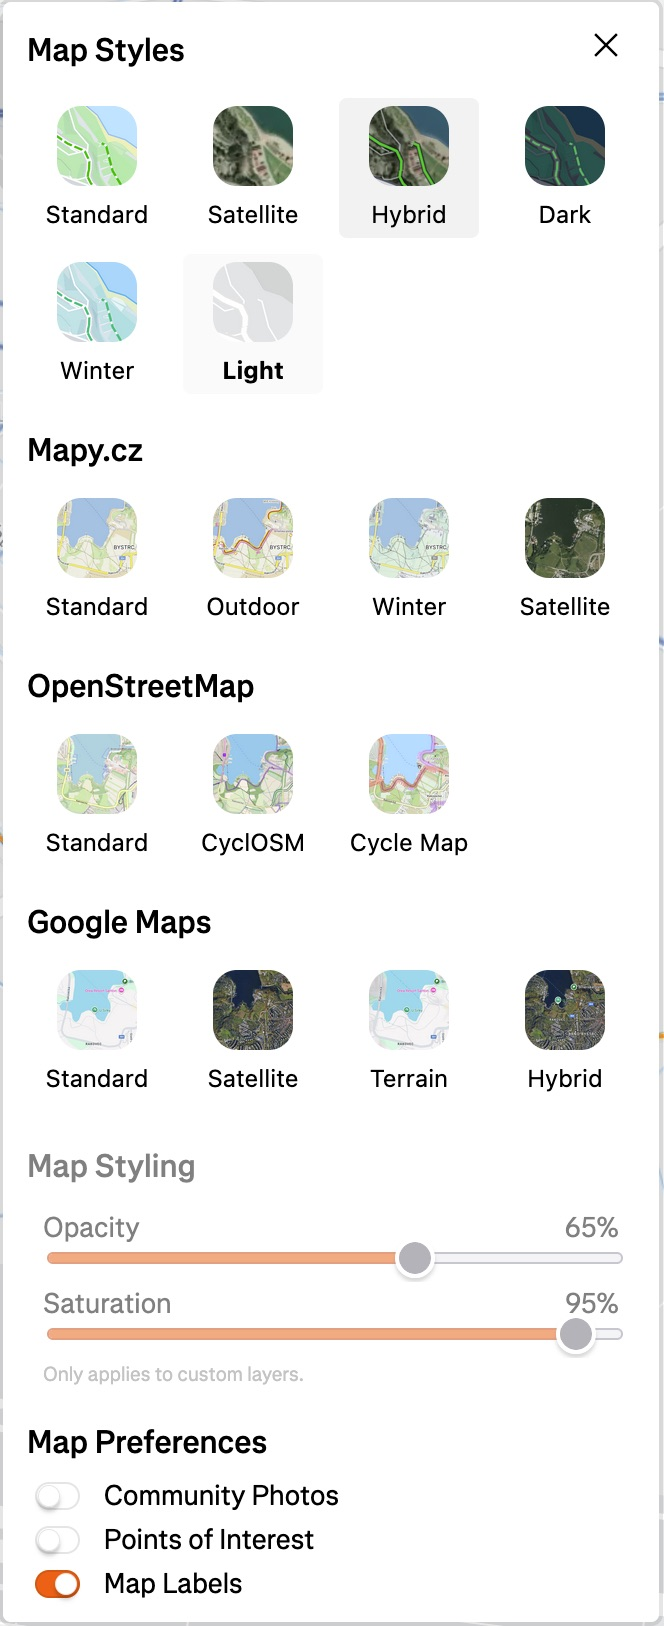
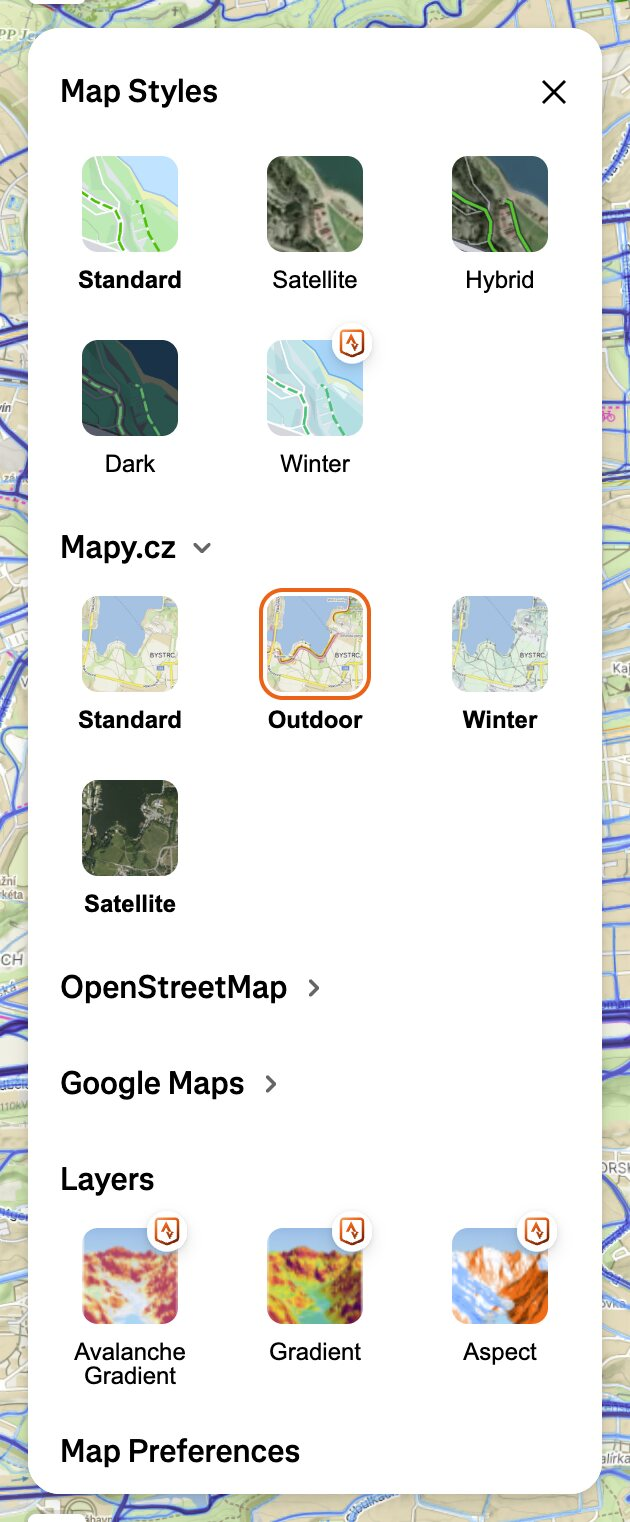
docs: update README and screenshots for the redesigned map style popover

diff --git a/README.md b/README.md
@@ -37,16 +37,20 @@ Swap Strava's base map for layers from multiple providers, on the heatmap, the r
 - **OpenStreetMap** - Standard, CyclOSM, and Thunderforest Cycle Map
 - **Google Maps** - Standard, Satellite, Terrain, and Hybrid views
 
-On the heatmap and route builder, pick a layer from Strava's map style menu. On an activity page, choose one from the map style dropdown in the top-right corner of the map.
+On the heatmap and route builder, the layers are added straight into Strava's own **Change map style** popover, grouped by provider. The provider groups are collapsible — click a group header to fold it — and the state is remembered between visits, so the popover stays compact. On an activity page, the layers show up as extra groups in the map style dropdown above the map.
+
+Strava's own overlays (heatmap, routes, markers, labels) keep rendering on top of the custom base layer. Switching back to any of Strava's own styles removes the override.
 
 ### 👁 Panorama Mode
 
-Click anywhere on the map to view street-level imagery:
+On the heatmap and route builder, click anywhere on the map to view street-level imagery in a draggable, resizable window:
 
 - **Mapy.cz Panorama** - Local coverage in Czech Republic
 - **Google Street View** - Global coverage
 
-Switch between providers with the control in the panorama window, or the dropdown next to the panorama toggle button on the map. Press **`P`** to toggle panorama mode on/off.
+A marker on the map shows where the camera stands and which way it looks — it rotates as you turn and moves along as you walk down a street.
+
+Switch between providers with the segmented control in the panorama window, or the dropdown next to the panorama toggle button on the map. Press **`P`** to toggle panorama mode on/off.
 
 ## Installation
 
@@ -119,18 +123,18 @@ Required for: Thunderforest Cycle Map layer.
 
 ### Panorama Provider
 
-Switch between Mapy.cz and Google Street View:
-- Use the control in the panorama window
-- Or use the dropdown next to the panorama toggle button on the map
+Switch between Mapy.cz and Google Street View either way — the choice is remembered:
+- The segmented control in the top-right of the panorama window
+- The dropdown next to the panorama toggle button on the map
 
 ## Usage
 
-1. Open the [Strava Heatmap](https://www.strava.com/maps), the [Route Builder](https://www.strava.com/maps/create), or any activity's detail page
-2. Choose a layer from Strava's map style menu (heatmap / route builder) or the map style dropdown (activity page)
+1. Open the [Strava Heatmap](https://www.strava.com/maps/global-heatmap), the [Route Builder](https://www.strava.com/maps/create), or any activity's detail page
+2. Choose a layer from Strava's **Change map style** popover (heatmap / route builder) or the map style dropdown (activity page)
 3. To enable panorama mode, click the eye icon or press **`P`**
 4. Click anywhere on the map to view street-level imagery
 
-> Panorama mode is available on the heatmap and route builder.
+> Panorama mode is available on the heatmap and route builder, not on activity detail pages.
 
 ## Development
 
